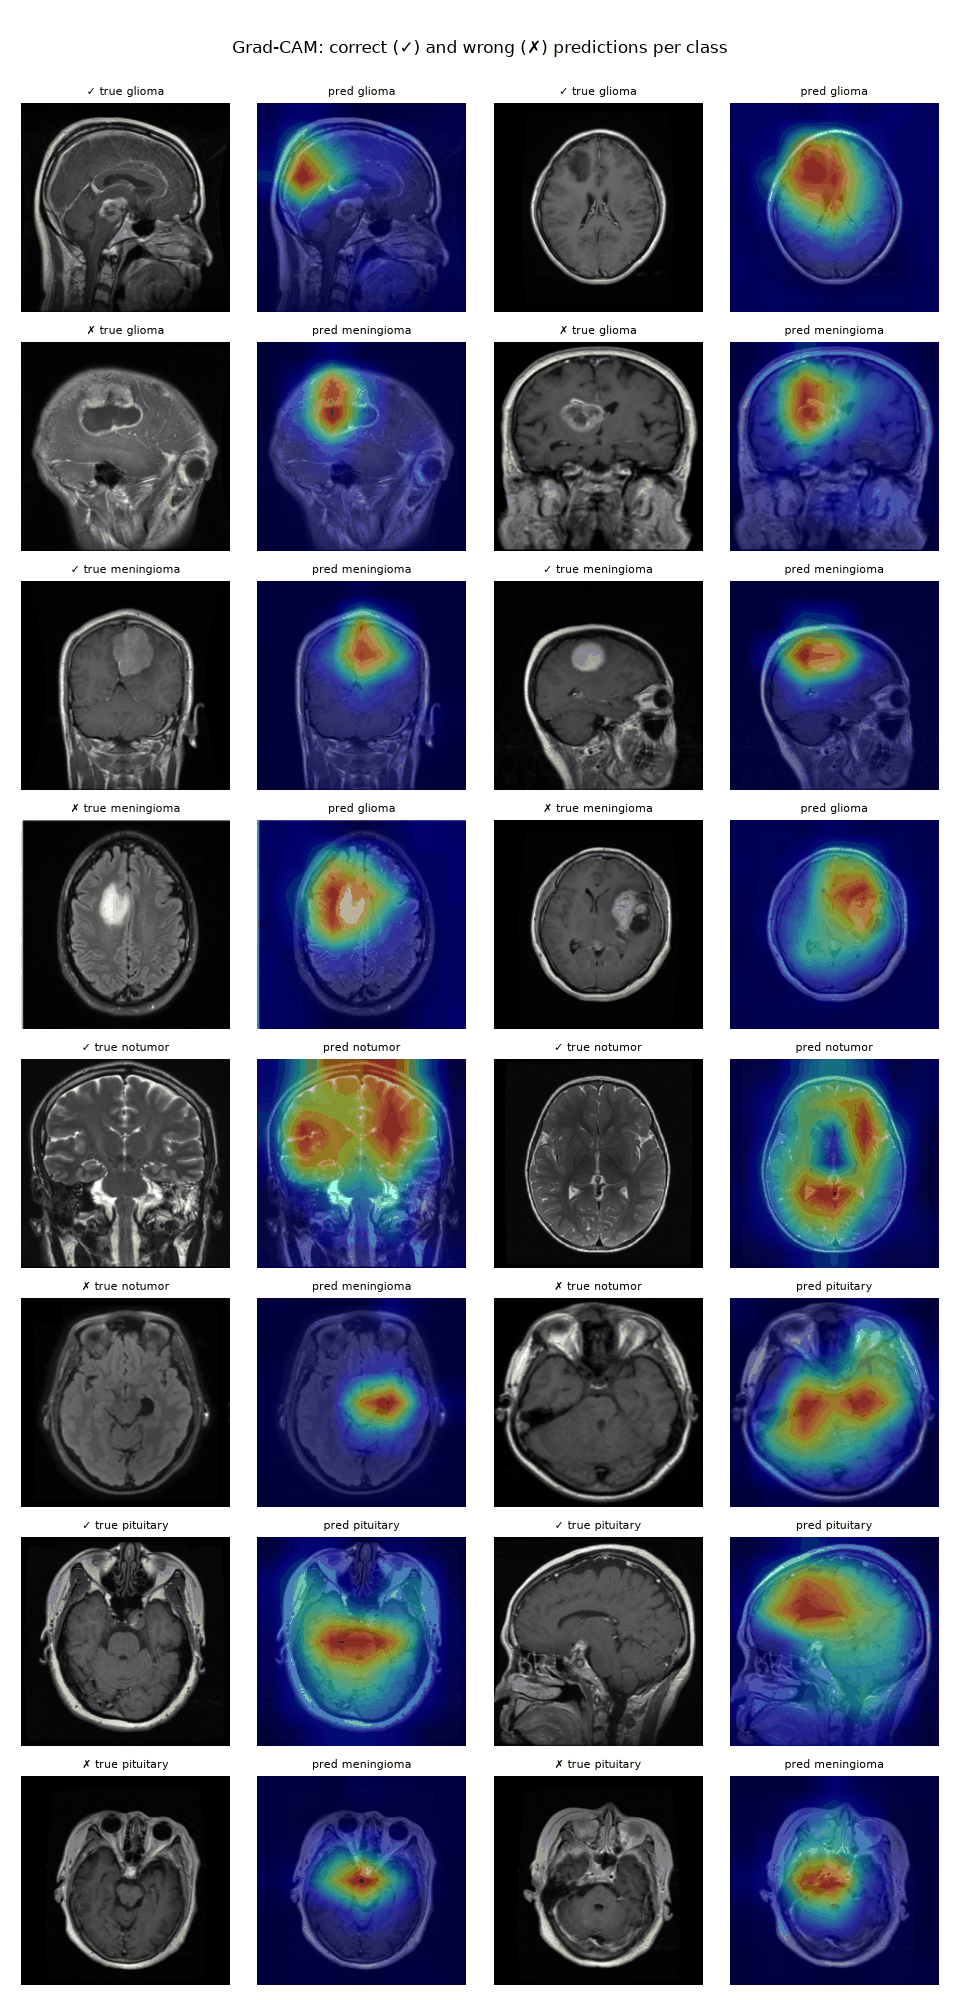
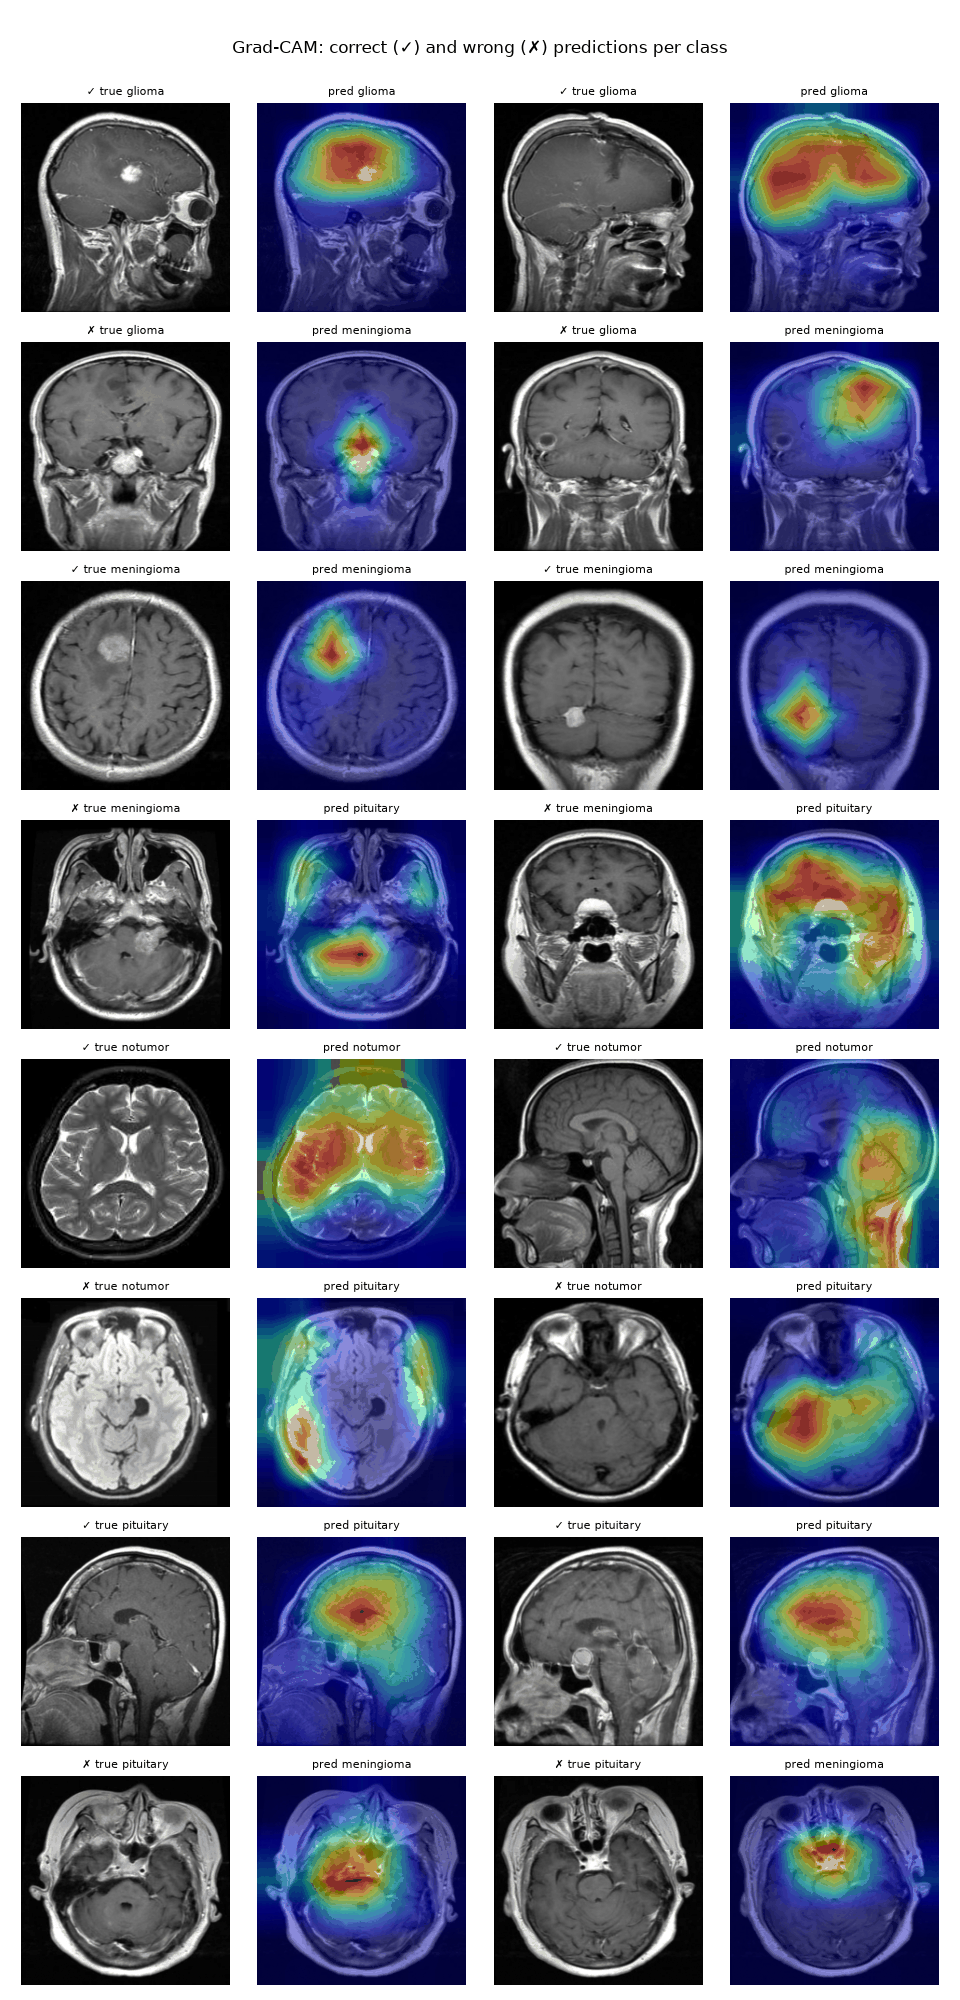
feat: promote the shortcut-reduced EfficientNetB0 to champion
By the unchanged selection rule it ties the leaders on validation macro F1
and keeps tumor sensitivity; its shortcut gap is +6.2 pt on test versus
+10.5 for the previous champion at equal or better accuracy. Calibrated
(T=2.19) and packaged with a refitted OOD detector as model version 10.
The demo's hard case is replaced, since the new model answers the old one
correctly; results and figures are regenerated.

diff --git a/src/neuroscan/serving/static/index.html b/src/neuroscan/serving/static/index.html
@@ -65,7 +65,7 @@
           <button class="sample" data-src="/static/samples/no_tumor.jpg" data-label="No tumor">
             <img src="/static/samples/no_tumor.jpg" alt="" loading="lazy"><span>No tumor</span>
           </button>
-          <button class="sample sample-hard" data-src="/static/samples/hard_case.jpg" data-label="Glioma (hard case)">
+          <button class="sample sample-hard" data-src="/static/samples/hard_case.jpg" data-label="Meningioma (hard case)">
             <img src="/static/samples/hard_case.jpg" alt="" loading="lazy"><span>Hard case</span>
           </button>
         </div>

diff --git a/docs/results.md b/docs/results.md
@@ -7,17 +7,18 @@ All four models use `splits/v1.csv`; metrics count each duplicate group once.
 | --- | ---: | --- | --- | ---: | ---: | ---: | ---: | ---: |
 | baseline_cnn | 9.68M | 0.953 (0.933–0.971) | 0.954 (0.933–0.972) | 95.9% | 99.0% | 91.6% | +10.9 pt | 12.5 ms |
 | resnet50 | 23.60M | 0.969 (0.954–0.983) | 0.967 (0.952–0.981) | 96.8% | 99.8% | 94.4% | +4.5 pt | 90.7 ms |
+| efficientnet_b0+shortcut_reduced | 4.05M | 0.965 (0.948–0.979) | 0.960 (0.942–0.976) | 96.0% | 99.6% | 95.8% | +6.2 pt | 18.0 ms |
 | efficientnet_b0 | 4.05M | 0.964 (0.947–0.979) | 0.955 (0.936–0.972) | 95.6% | 99.0% | 97.2% | +10.5 pt | 30.1 ms |
 | cnn_gap | 0.26M | 0.853 (0.823–0.882) | 0.879 (0.847–0.906) | 88.3% | 97.3% | 90.2% | +22.6 pt | 10.0 ms |
 
 ## Selection ([rule](model_selection.md), validation metrics only)
 
-1. Ranked by validation macro F1: resnet50 0.9690, efficientnet_b0 0.9640, baseline_cnn 0.9528, cnn_gap 0.8529. Leader: resnet50.
-2. 95% intervals overlapping the leader's (0.9537-0.9826): resnet50, efficientnet_b0, baseline_cnn.
-3. Best tumor sensitivity in the tie 1.0000; kept within 1 point: resnet50, efficientnet_b0 (dropped baseline_cnn).
-4. CPU latency p50: resnet50 90.7 ms, efficientnet_b0 30.1 ms. Within 10% of the fastest: efficientnet_b0; fewest parameters among them: efficientnet_b0.
+1. Ranked by validation macro F1: resnet50 0.9690, efficientnet_b0+shortcut_reduced 0.9654, efficientnet_b0 0.9640, baseline_cnn 0.9528, cnn_gap 0.8529. Leader: resnet50.
+2. 95% intervals overlapping the leader's (0.9537-0.9826): resnet50, efficientnet_b0+shortcut_reduced, efficientnet_b0, baseline_cnn.
+3. Best tumor sensitivity in the tie 1.0000; kept within 1 point: resnet50, efficientnet_b0+shortcut_reduced, efficientnet_b0 (dropped baseline_cnn).
+4. CPU latency p50: resnet50 90.7 ms, efficientnet_b0+shortcut_reduced 18.0 ms, efficientnet_b0 30.1 ms. Within 10% of the fastest: efficientnet_b0+shortcut_reduced; fewest parameters among them: efficientnet_b0+shortcut_reduced.
 
-**Champion:** EfficientNetB0. **Baseline:** Baseline CNN.
+**Champion:** EfficientNetB0, shortcut-reduced. **Baseline:** Baseline CNN.
 
 ![Model comparison](figures/model_comparison.png)
 
@@ -25,6 +26,7 @@ All four models use `splits/v1.csv`; metrics count each duplicate group once.
 
 | Model | Temperature | Test ECE before → after | Test NLL before → after |
 | --- | ---: | ---: | ---: |
+| EfficientNetB0, shortcut-reduced | 2.19 | 0.023 → 0.014 | 0.163 → 0.108 |
 | ResNet50 | 2.41 | 0.019 → 0.014 | 0.123 → 0.090 |
 | EfficientNetB0 | 2.02 | 0.024 → 0.011 | 0.138 → 0.111 |
 | CNN + GAP | 1.33 | 0.025 → 0.041 | 0.281 → 0.281 |
@@ -36,9 +38,9 @@ The champion is served with its temperature applied.
 
 ## Where the champion looks (Grad-CAM, test split)
 
-- Heatmap peak inside the brain mask: 99.6% (chance, i.e. mask area: 54.1%).
-- Share of heatmap mass inside the brain mask: 85.8%.
-- Peak inside the brain for wrong predictions: 97.6%.
+- Heatmap peak inside the brain mask: 99.5% (chance, i.e. mask area: 68.7%).
+- Share of heatmap mass inside the brain mask: 89.3%.
+- Peak inside the brain for wrong predictions: 96.9%.
 
 A sanity check, not proof of correct reasoning: the mask is a simple intensity threshold.
 
@@ -46,14 +48,14 @@ A sanity check, not proof of correct reasoning: the mask is a simple intensity t
 
 ## Refusing what the model shouldn't answer (test split)
 
-- Real test MRIs rejected as out of distribution: 2.2% (threshold set so about 2% of validation MRIs are rejected).
-- Flagged uncertain (calibrated confidence < 0.86): 8.7%; accuracy on the answered rest: 98.8%.
+- Real test MRIs rejected as out of distribution: 2.0% (threshold set so about 2% of validation MRIs are rejected).
+- Flagged uncertain (calibrated confidence < 0.75): 3.6%; accuracy on the answered rest: 98.2%.
 
 | OOD source | Rejected | AUROC (Mahalanobis / max softmax) | FPR at 95% TPR (Mahalanobis / max softmax) |
 | --- | ---: | ---: | ---: |
-| chest xray | 100.0% | 1.000 / 0.961 | 0.0% / 31.9% |
-| ct | 94.3% | 0.994 / 0.947 | 1.3% / 39.0% |
-| natural photos | 100.0% | 1.000 / 0.965 | 0.0% / 25.7% |
-| spine mri | 100.0% | 0.999 / 0.866 | 0.0% / 80.3% |
+| chest xray | 100.0% | 1.000 / 0.989 | 0.0% / 3.2% |
+| ct | 98.3% | 0.996 / 0.969 | 0.0% / 22.3% |
+| natural photos | 100.0% | 1.000 / 0.988 | 0.0% / 4.7% |
+| spine mri | 100.0% | 0.999 / 0.969 | 0.0% / 21.0% |
 
 ![OOD scores](figures/champion_ood_scores.png)
